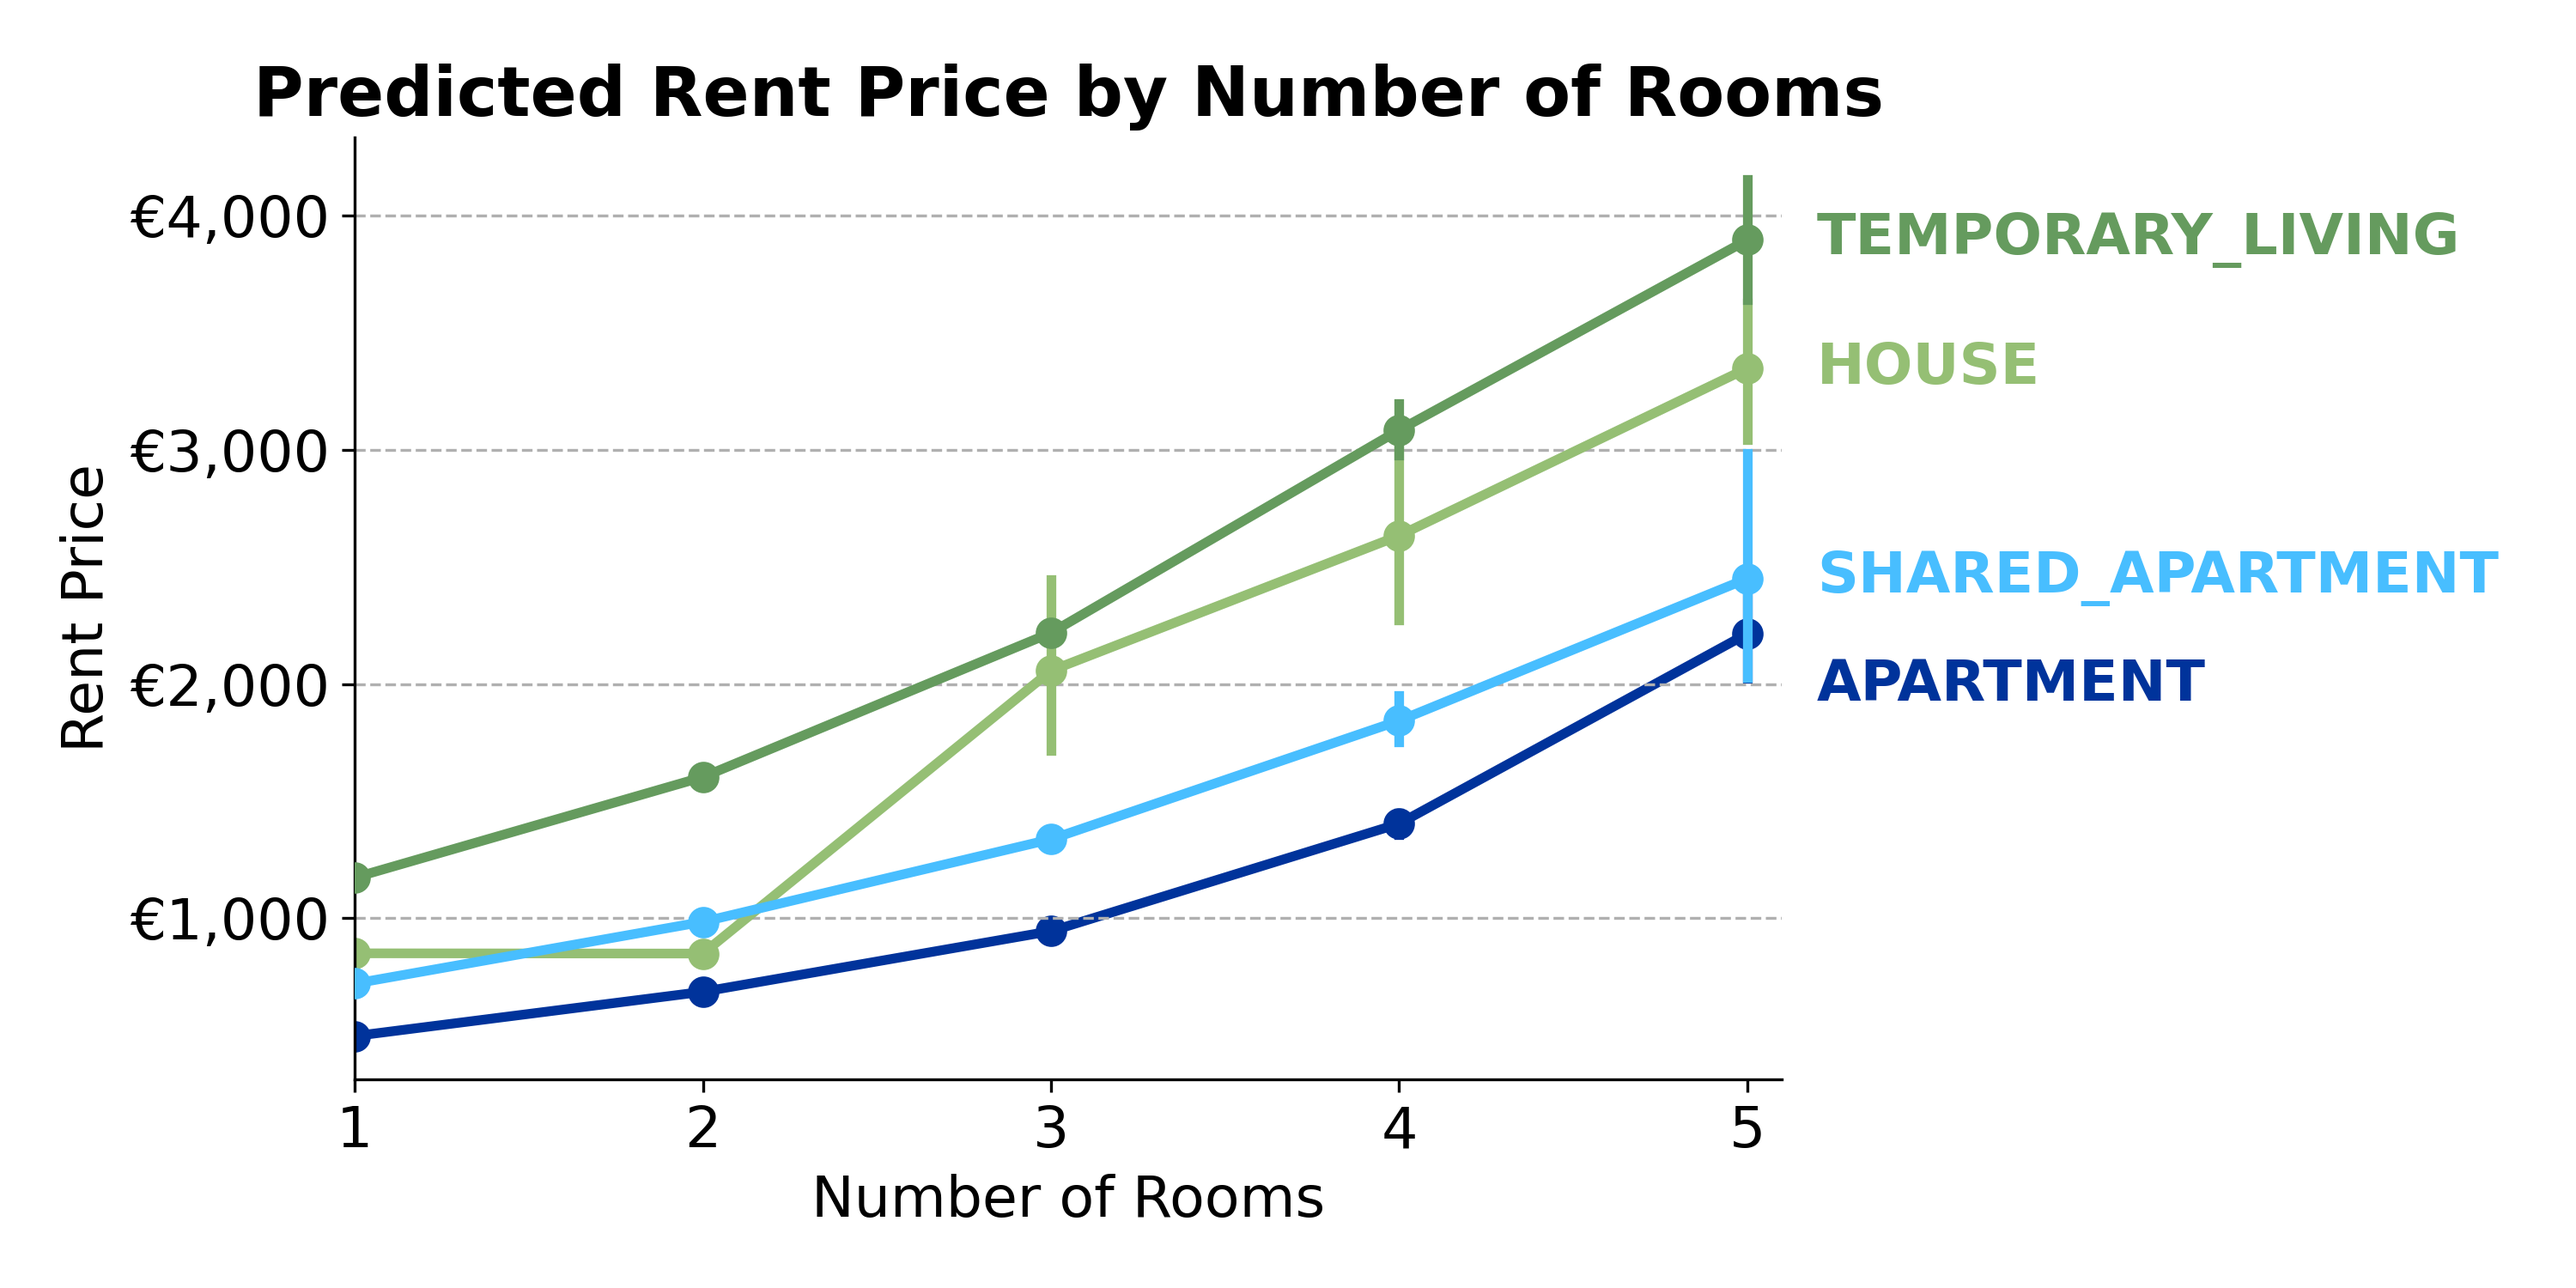
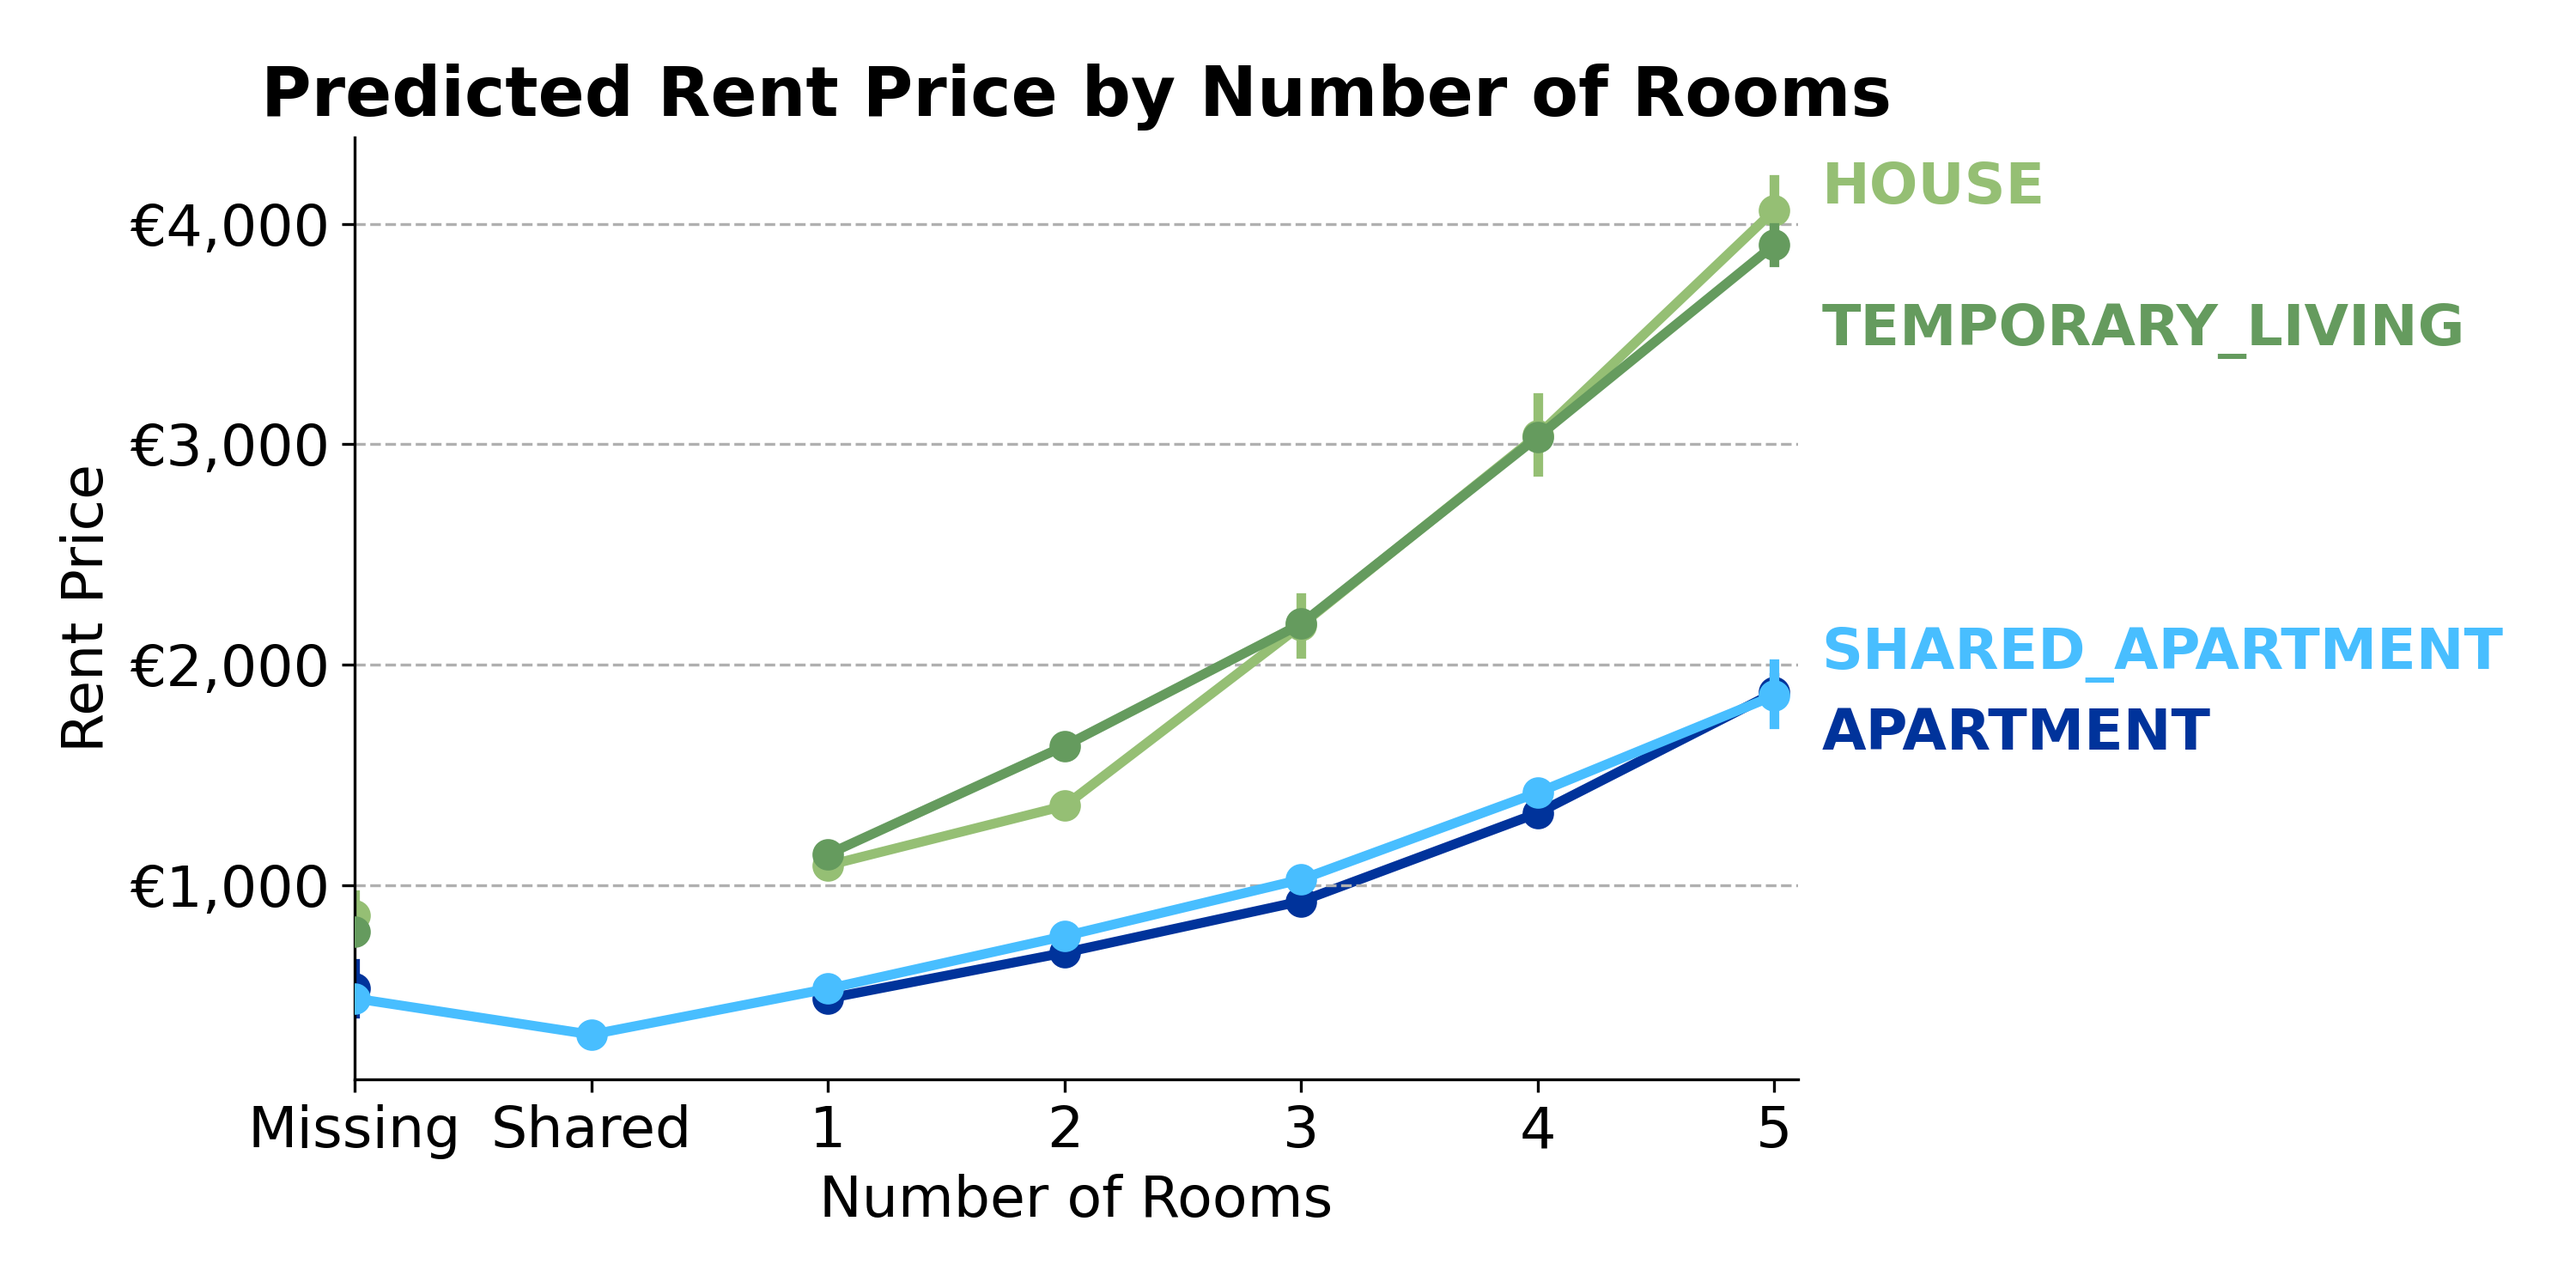
redo plots

diff --git a/scripts/prediction_plots.py b/scripts/prediction_plots.py
@@ -47,6 +47,16 @@ USE_MODEL = result
 preds = np.exp(USE_MODEL.predict(leverage_removed))
 _df = pd.concat([leverage_removed, pd.DataFrame(preds, columns=["preds"])], axis=1)
 
+room_order = [
+    "Missing",
+    "Shared",
+    "1",
+    "2",
+    "3",
+    "4",
+    "5",
+]
+
 fig, ax = plt.subplots(figsize=(10, 5))
 palette = {
     "APARTMENT": DUKEBLUE,
@@ -55,20 +65,25 @@ palette = {
     "TEMPORARY_LIVING": "#659B5E",
     "HOLIDAY_HOUSE_APARTMENT": "white",
 }
-sns.pointplot(data=_df, x="rooms", y="preds", hue="object_type", palette=palette, ax=ax)
+sns.pointplot(
+    data=_df, x="rooms", y="preds", hue="object_type", palette=palette, ax=ax, order=room_order
+)
 
 label_yvals = _df.query("rooms == '5'").groupby("object_type")["preds"].mean().dropna().to_dict()
 label_yvals["APARTMENT"] = label_yvals["APARTMENT"] * 0.9
+label_yvals["HOUSE"] = label_yvals["HOUSE"] * 1.025
+label_yvals["TEMPORARY_LIVING"] = label_yvals["TEMPORARY_LIVING"] * 0.9
+label_yvals["SHARED_APARTMENT"] = label_yvals["SHARED_APARTMENT"] * 1.1
 
 for label, yval in label_yvals.items():
-    ax.text(4.2, yval, label, verticalalignment="center", weight="bold", color=palette[label])
+    ax.text(6.2, yval, label, verticalalignment="center", weight="bold", color=palette[label])
 
 ax.yaxis.set_major_formatter(plt.FuncFormatter(lambda y, _: "€{:,.0f}".format(y)))
 ax.set_xlabel("Number of Rooms")
 ax.set_ylabel("Rent Price")
 ax.set_title("Predicted Rent Price by Number of Rooms", weight="bold")
 ax.grid(axis="y", ls="--")
-ax.set_xlim(0, 4.1)
+ax.set_xlim(0, 6.1)
 ax.legend([], frameon=False)
 plt.tight_layout()
 sns.despine()
